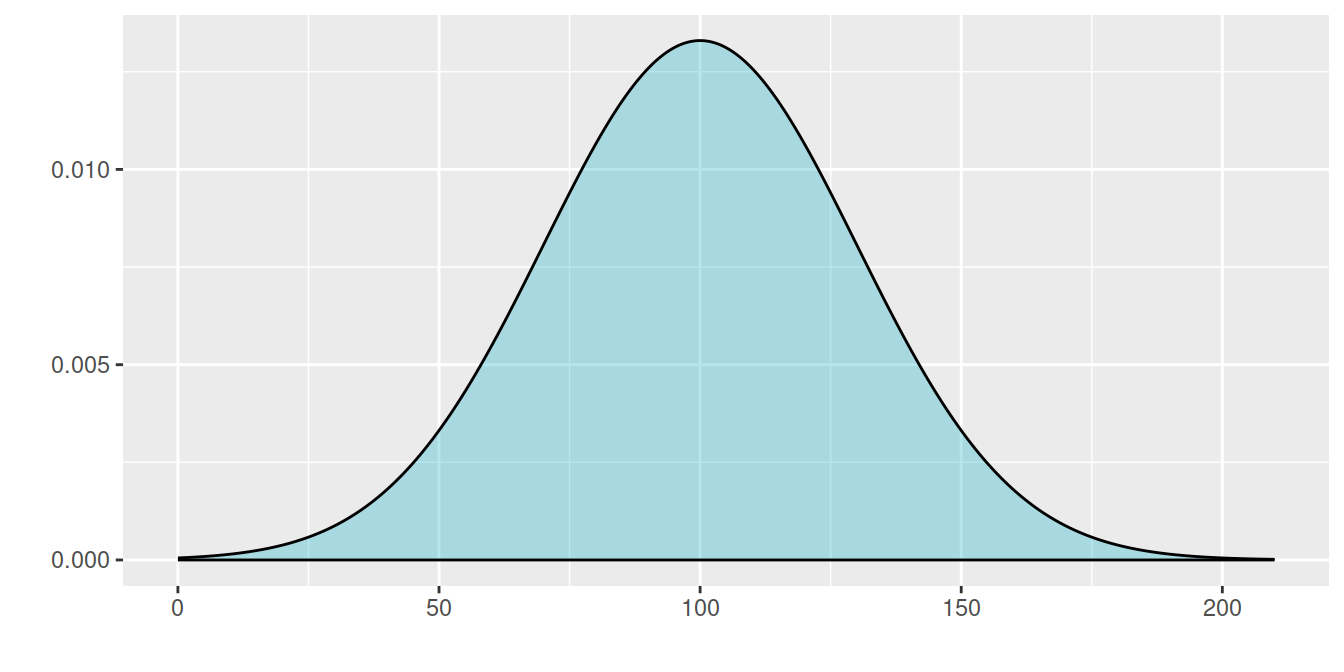
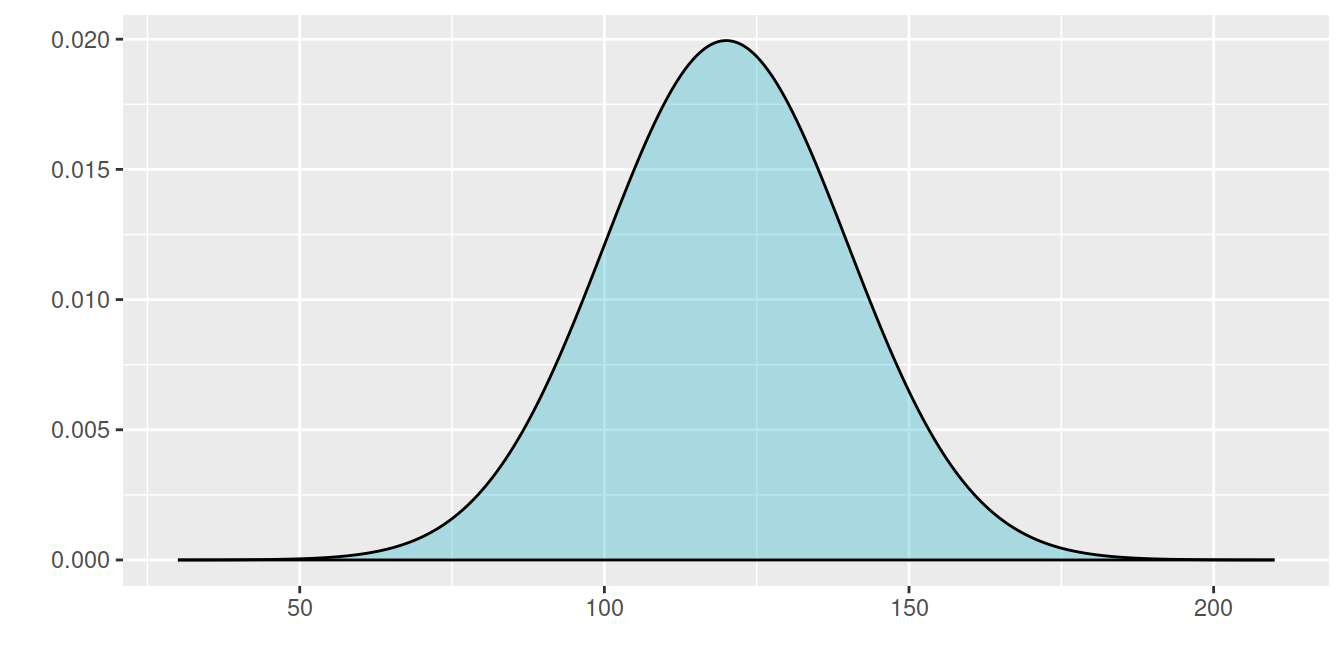
ajustes unidad2

diff --git a/docs/recurso303.html b/docs/recurso303.html
@@ -853,13 +853,24 @@ ggplot(dat) + geom_point(aes(x, fx),colour = &quot;#FF7F00&quot;, size = 2) +
                      labels = c(&#39;0&#39;,&#39;1&#39;,&#39;2&#39;,&#39;3&#39;,&#39;4&#39;,&#39;5&#39;,&#39;6&#39;,&#39;7&#39;,&#39;8&#39;,&#39;9&#39;,&#39;10&#39;))</code></pre>
 <p><img src="recurso303_files/figure-html/unnamed-chunk-3-1.png" width="672" style="display: block; margin: auto;" /></p>
 <p><br/></p>
-<p><span class="math display">\[ P(X=7) = \dbinom{10}{7} 0.60^{7}
-(1-0.60)^{(10-7)}\]</span></p>
+<p>Para calcular la probabidad de obtener exactamente 7 exitos, se
+evalua en la función de distribución del modelo binomial</p>
+<p><span class="math display">\[ f(x) = P(X=7) = \dbinom{10}{7} 0.60^{7}
+(1-0.60)^{(10-7)}\]</span> <br/></p>
+<p>En R este calculo se obtiene con la función <code>dbinom()</code></p>
 <pre class="r"><code>dbinom(7, 10, 0.60)</code></pre>
 <pre><code>[1] 0.2149908</code></pre>
-<p><span class="math display">\[P(X \leq 7) =
+<p><br/></p>
+<p>En caso de requerir la probabilidad acumulada para los valores
+mejores o iguales a 7 (0,1,2,3,4,5,6,7) , se evalua para cada caso el
+valor correspondiente en la función de distribución binomial y los
+resultados se suman para obtener el valor total.</p>
+<p><span class="math display">\[F(x) = P(X \leq 7) =
 \displaystyle\sum_{x=0}^{x=7} \dbinom{10}{x} 0.60^{x}
 (1-0.60)^{(10-x)}\]</span> <br/></p>
+<p>En R este valor se obtiene mendiante la función
+<code>pbinom()</code></p>
+<p><br/></p>
 <pre class="r"><code>pbinom(7, 10, 0.60)</code></pre>
 <pre><code>[1] 0.8327102</code></pre>
 <p><br/><br/><br/></p>
@@ -944,23 +955,42 @@ p</code></pre>
 <p>Ahora supongamos que se tiene una variable continua con distribución
 normal, con media 50 y varianza 100, es decir desviación estándar 10, lo
 cual se puede representar como <span class="math inline">\(X\sim
-N(100,900)\)</span>. En este caso vamos a hallar los siguientes
+N(120,100)\)</span>. En este caso vamos a hallar los siguientes
 valores:</p>
 <p><br/></p>
 <pre class="r"><code>library(ggfortify)
-ggdistribution(dnorm, seq(0, 210, 0.1), mean = 100, sd = 30,fill = &quot;#0EB0C6&quot;)</code></pre>
+ggdistribution(dnorm, seq(30, 210, 0.1), mean = 120, sd = 20,fill = &quot;#0EB0C6&quot;)</code></pre>
 <p><img src="recurso303_files/figure-html/unnamed-chunk-7-1.png" width="672" style="display: block; margin: auto;" /></p>
-<p><span class="math display">\[P(X&lt;70)
-=\displaystyle\int_{-\infty}^{70} \dfrac{1}{\sqrt{1800 \pi }}
-\exp\Big\{-\frac{1}{1800 }(x-100)^{2}\Big\} \:dx\]</span></p>
-<pre class="r"><code>pnorm(70,100,sqrt(900))</code></pre>
+<p><br/></p>
+<p>En este caso si se requiere calcular la probabilidad de obtener
+valores menores o iguales a 70 ( <span
+class="math inline">\(F(100)\)</span>), dado que esta probabilidad
+corresponde a un área bajo la curva de la función delimitada por 70 que
+se obtiene mediante la integral de <span
+class="math inline">\(f(x)\)</span>.</p>
+<p><br/></p>
+<p><span class="math display">\[P(X \leq 100) = F(100)
+=\displaystyle\int_{-\infty}^{100} \dfrac{1}{\sqrt{800 \pi }}
+\exp\Big\{-\frac{1}{800 }(x-120)^{2}\Big\} \:dx\]</span></p>
+<p><br/></p>
+<p>En R se utiliza la función <code>pnorm()</code> para realizar este
+calculo</p>
+<p><br/></p>
+<pre class="r"><code>pnorm(100,120,20)</code></pre>
 <pre><code>[1] 0.1586553</code></pre>
 <p><br/></p>
-<p><span class="math display">\[P(X&gt;70)
-=\displaystyle\int_{70}^{\infty} \dfrac{1}{\sqrt{1800 \pi }}
-\exp\Big\{-\frac{1}{1800 }(x-100)^{2}\Big\} \:dx\]</span></p>
-<pre class="r"><code>pnorm(70,100,sqrt(1800),lower.tail=FALSE)</code></pre>
-<pre><code>[1] 0.7602499</code></pre>
+<p>En el caso de requerir la probabilidad de obtener un valor superior a
+70, se requiere calcular la integral desde 70 a mas infinito</p>
+<p><span class="math display">\[P(X&gt;100)
+=\displaystyle\int_{100}^{\infty} \dfrac{1}{\sqrt{800 \pi }}
+\exp\Big\{-\frac{1}{800 }(x-120)^{2}\Big\} \:dx\]</span></p>
+<p><br/></p>
+<p>En R esta probabilidad se puede obtener con la funcion
+<code>pnorm()</code> de dos formas</p>
+<pre class="r"><code>pnorm(100,120,20,lower.tail=FALSE)</code></pre>
+<pre><code>[1] 0.8413447</code></pre>
+<pre class="r"><code>1-pnorm(100,120, 20)</code></pre>
+<pre><code>[1] 0.8413447</code></pre>
 <p><br/><br/></p>
 </div>
 <div
@@ -987,28 +1017,28 @@ defectuoso</p>
 <p>Simulemos 100 valores que podrían corresponde al resultado de la
 revisión de 100 cajas</p>
 <pre class="r"><code>rbinom(100, 10, 0.10)</code></pre>
-<pre><code>  [1] 1 1 0 0 1 2 0 1 2 0 2 2 3 0 0 0 3 2 1 1 1 0 0 1 1 0 1 1 1 1 1 0 1 0 2 0 3
- [38] 1 2 1 3 1 1 2 2 2 0 1 1 1 1 2 0 2 1 1 1 1 0 1 1 0 2 2 0 0 0 1 0 2 1 0 0 2
- [75] 3 1 0 1 0 2 3 2 1 0 0 0 2 2 2 0 2 2 1 0 2 2 1 1 1 0</code></pre>
+<pre><code>  [1] 0 0 0 1 0 0 1 0 0 1 0 0 2 2 1 1 0 1 1 1 1 2 2 0 1 1 1 0 1 1 1 4 2 2 1 0 1
+ [38] 1 0 2 1 0 1 2 1 0 1 0 1 0 1 0 2 1 1 0 1 0 3 1 1 2 0 1 0 0 1 0 1 0 2 1 3 2
+ [75] 3 1 2 2 1 0 0 1 1 3 2 1 0 0 2 0 0 1 1 4 4 1 2 1 0 1</code></pre>
 <p><br/><br/></p>
 </div>
 <div id="ejemplo-3" class="section level3">
 <h3><span style="color:#FF7F00"><strong>Ejemplo</strong></span></h3>
 <p>Para el caso de la distribició normal, simulemos el resultado de una
 prueba realizada por 100 estudiantes. Para ello se requiere conocer el
-valor de los parámetros asociados a ese modelo (<span
+valor de los parámetros asociados a ese modelo ( <span
 class="math inline">\(\mu\)</span> y <span
-class="math inline">\(\sigma^2\)</span>)</p>
+class="math inline">\(\sigma^2\)</span> )</p>
 <p>Para el caso supongamos que <span class="math inline">\(\mu =
-120\)</span> y <span class="math inline">\(\sigma = 8\)</span></p>
+120\)</span> y <span class="math inline">\(\sigma = 20\)</span></p>
 <pre class="r"><code># round() , función para redondear a cero cifras decimanes
-round(rnorm(100,120,8),0) </code></pre>
-<pre><code>  [1] 110 129 100 120 126 115 126 124 123 118 128 109 109 110 114 108 128 122
- [19] 118 133 115 122 128 120 113 124 123 119 126 111 128 125 117 119 121 124
- [37] 112 129 123 116 115 116 134 124 138 116 125 110 123 113 124 115 126  97
- [55] 123 115 118 128 136 106 109 114 112 121 120 131 107 118 136 110  94 130
- [73] 122 123 131 111 102 127 116 131 129 114 123 110 127 122 134 115 113 122
- [91] 102 113 118 123 131 120 130 115 106 124</code></pre>
+round(rnorm(100,120,20),0) </code></pre>
+<pre><code>  [1]  99 107 134 135 124 109 105 128 129 160 121 114 144 124 104  95 109 153
+ [19] 118 127  63 127 131 127 115 119 102 137 105 108 113 113 114 140 136 100
+ [37] 132 104 133 173 109  88 122 116 115 112  89  92 133 103 150 159 128 119
+ [55] 106 124 138 110 107 116 127 107 114 137 137 141 161 120 108  98 169 118
+ [73]  91 121 151 121 114 124  88 105 104  93 119  84  83 135 130 157 131 126
+ [91] 121 139 103 114 112 115 130 117 134 126</code></pre>
 </div>
 </div>
 
